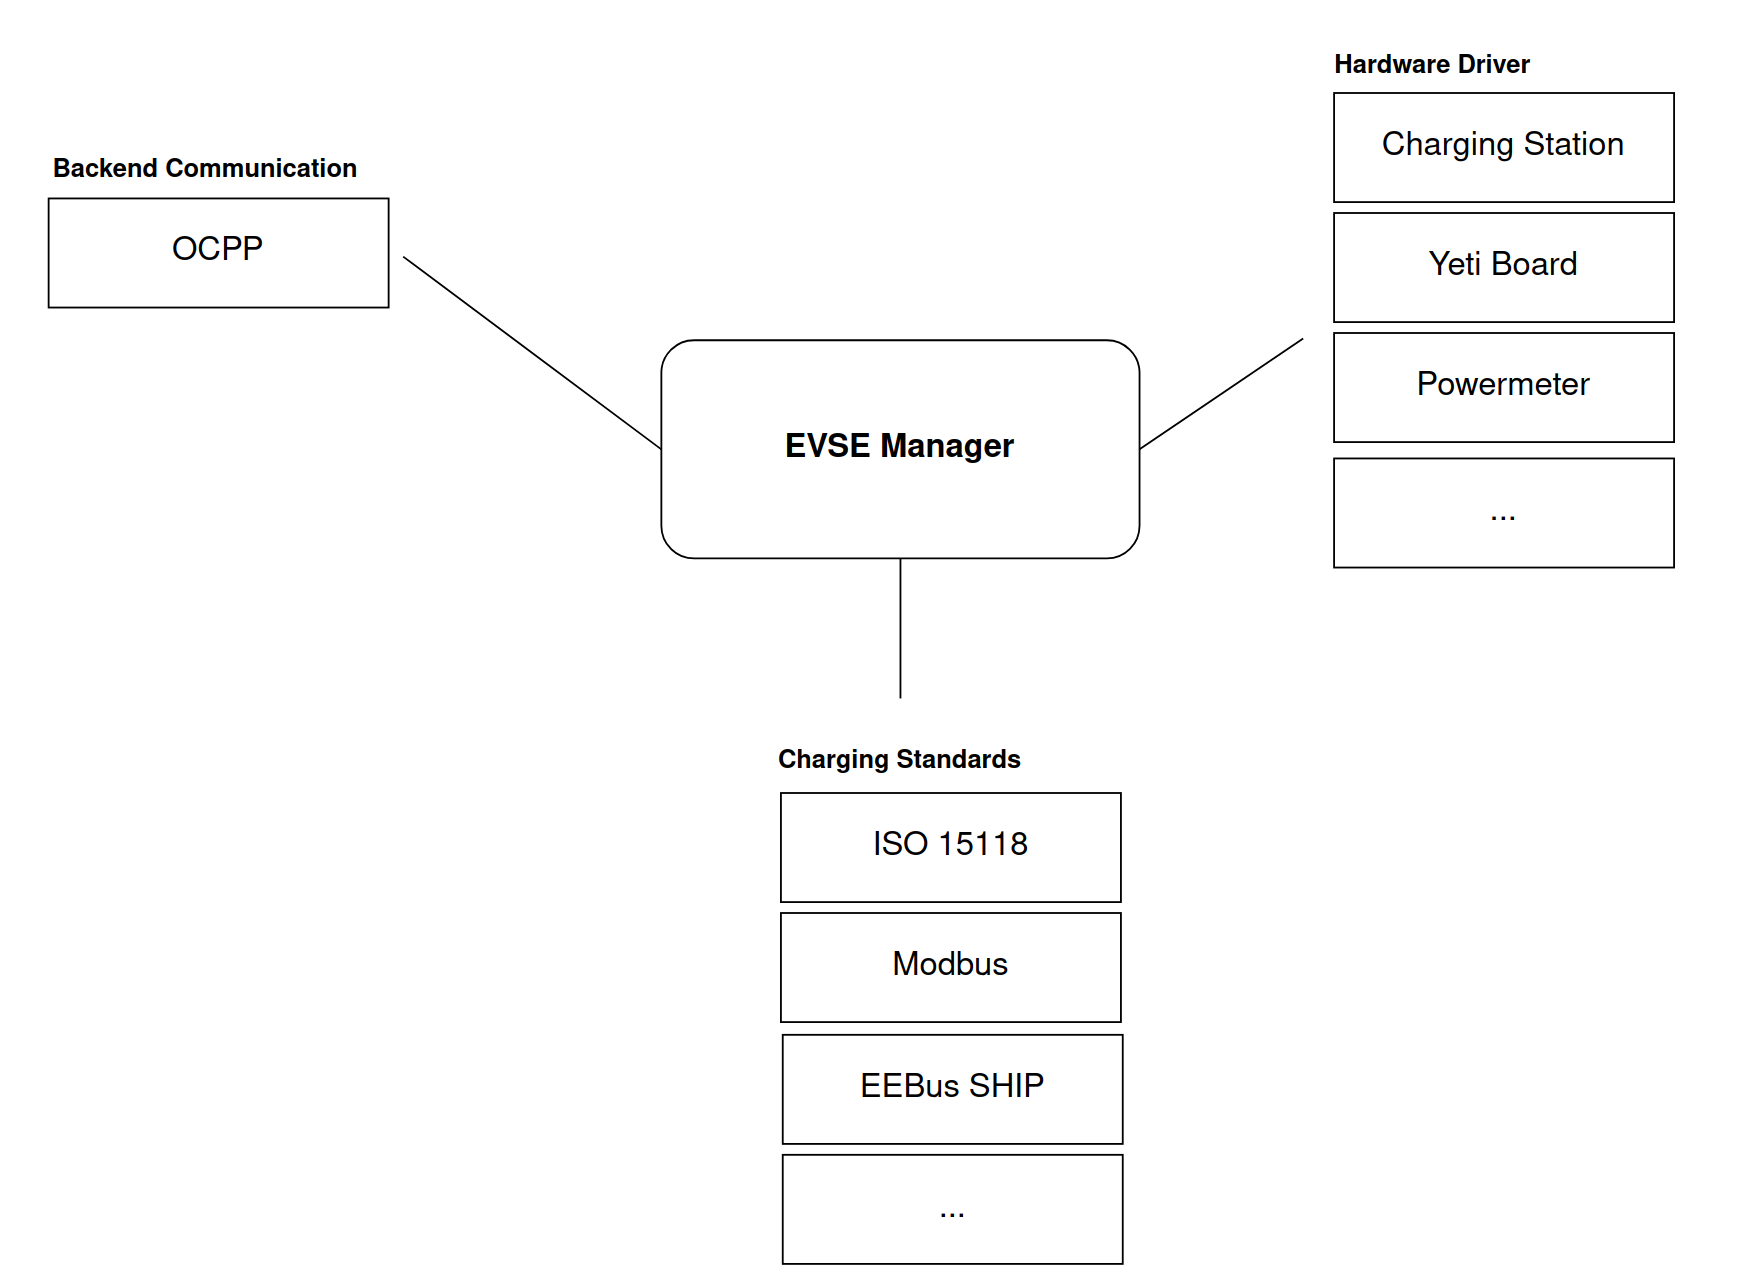
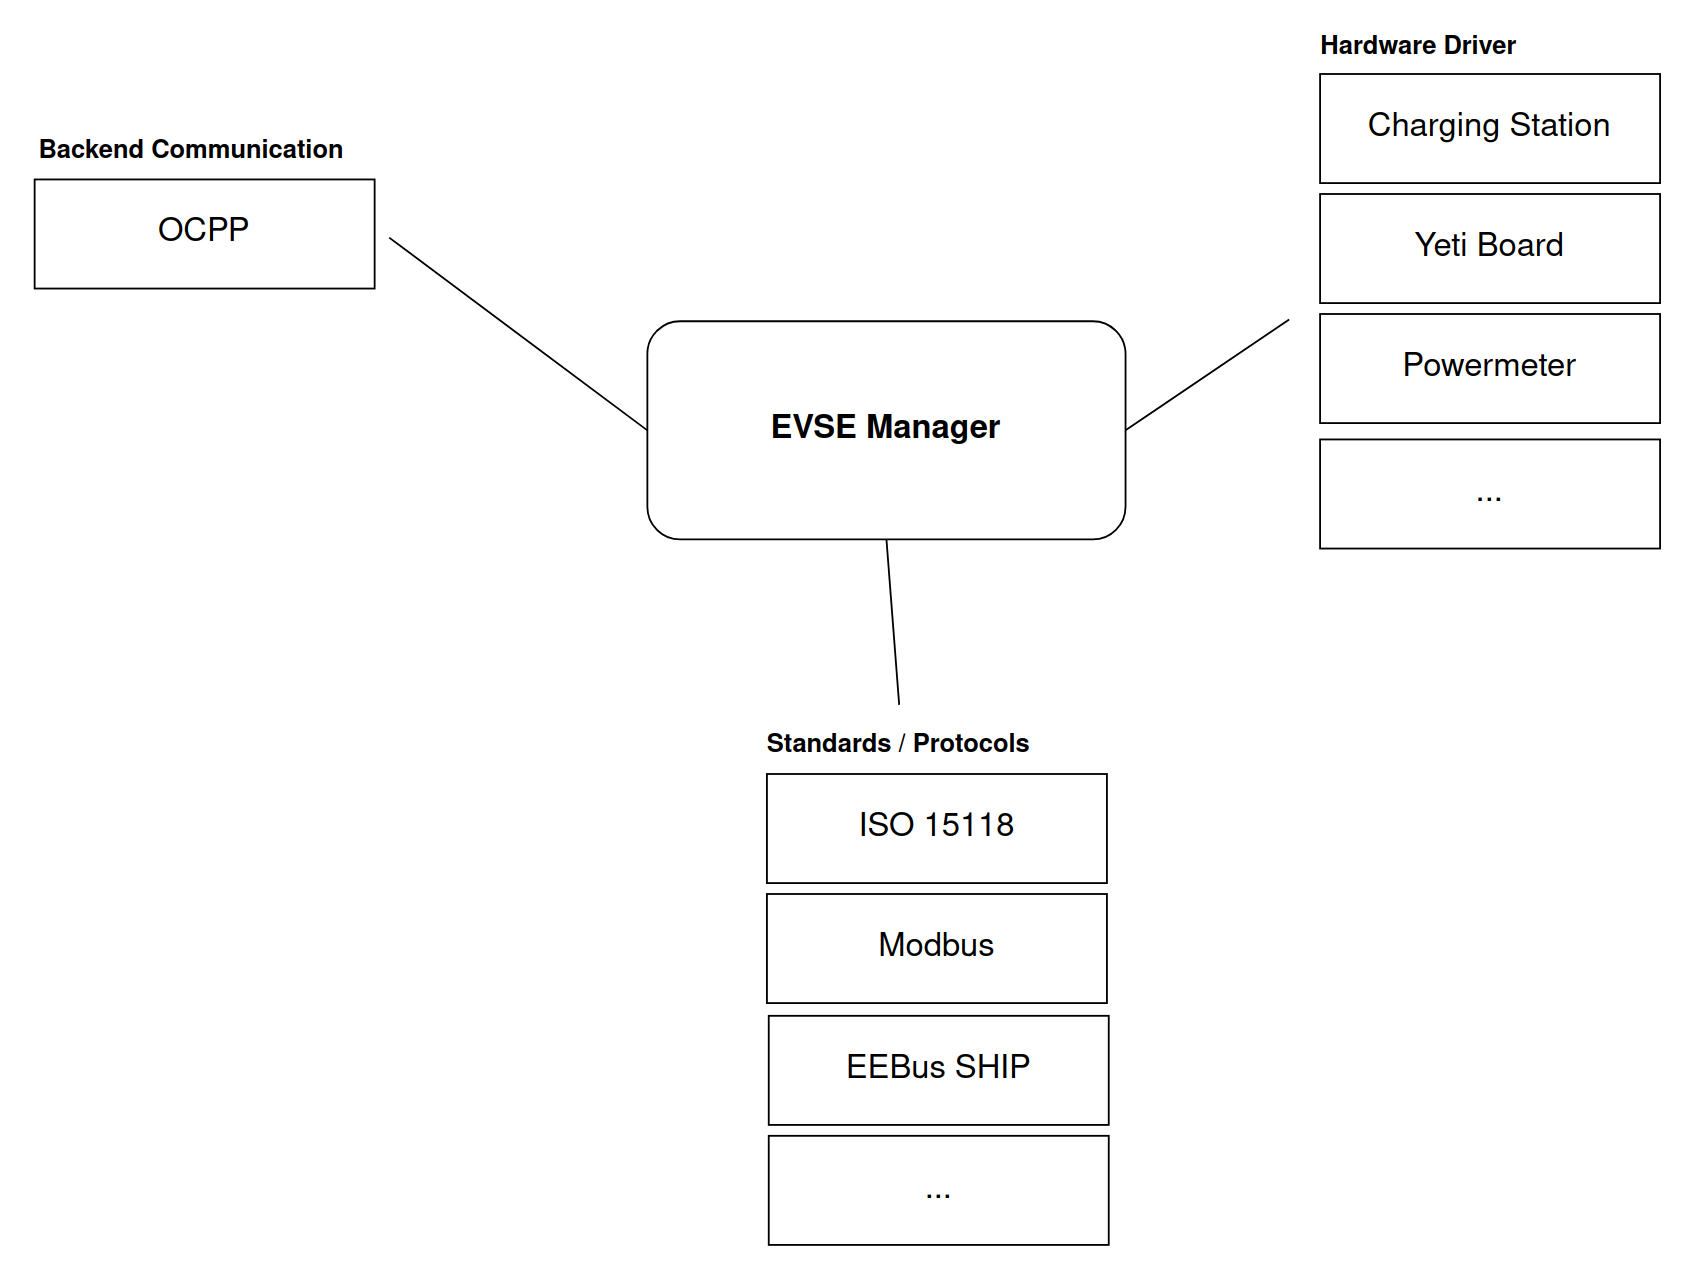
Docu: Changed text label in top-level illustration and added links to YouTube channel and mailinglist

diff --git a/docs/general/quick_start_guide.rst b/docs/general/quick_start_guide.rst
@@ -331,3 +331,10 @@ This allows you to do setup things that relate only to your current module in th
 .. attention:: 
 
   We will add additional documentation here soon to get you an idea about how vars can be published and how to interact with required modules from the outside. We will show callback functions and events and how all this works together in your module.
+
+***************************
+Further Sources For EVerest 
+***************************
+
+* See our videos on our `EVerest-YouTube-Channel <https://www.youtube.com/@lfe_everest>`_
+* Join our conversation at the `EVerest Mailing List <https://lists.lfenergy.org/g/everest>`_. We are also there to help you out with any questions there.
